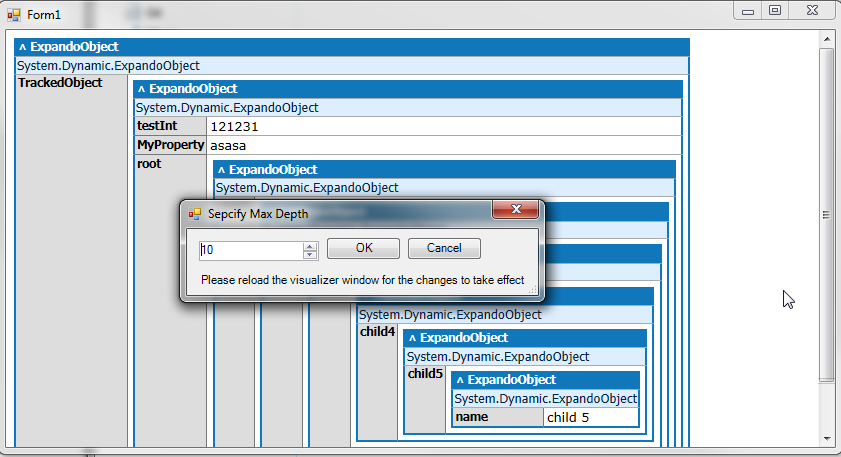
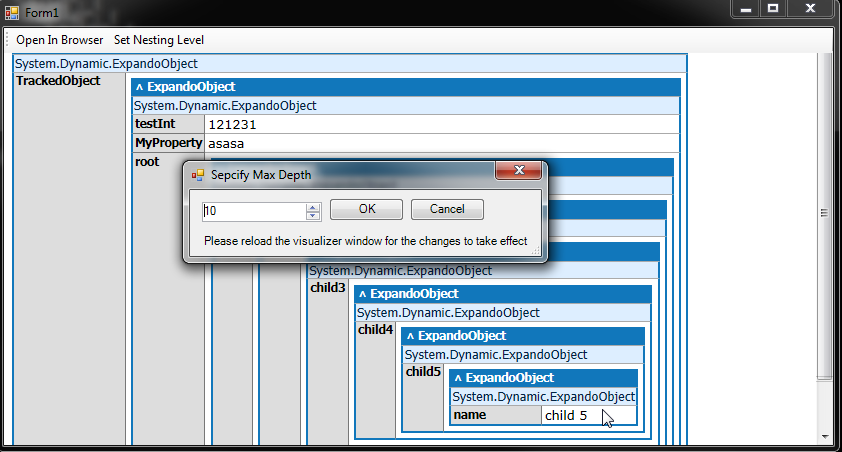
update readme

diff --git a/README.md b/README.md
@@ -3,13 +3,9 @@ LinqPadVisulaizer
 
 Forked from https://code.google.com/p/linqpadvisualizer/
 
-This versions adds support to customize object serialization depth.
-
-![Set max depth menu item](/Docs/set-depth-menu.png)
+This version allows setting nesting level and opening the view in browser.
 
 ![Set max depth form](/Docs/set-max-depth-dialog.png)
-
-
 
 ## How to Use ##
 These instructions are tested with Visual Studio 2012 and Linqpad 4.55, but, should work for newer visual studio versions as well.
